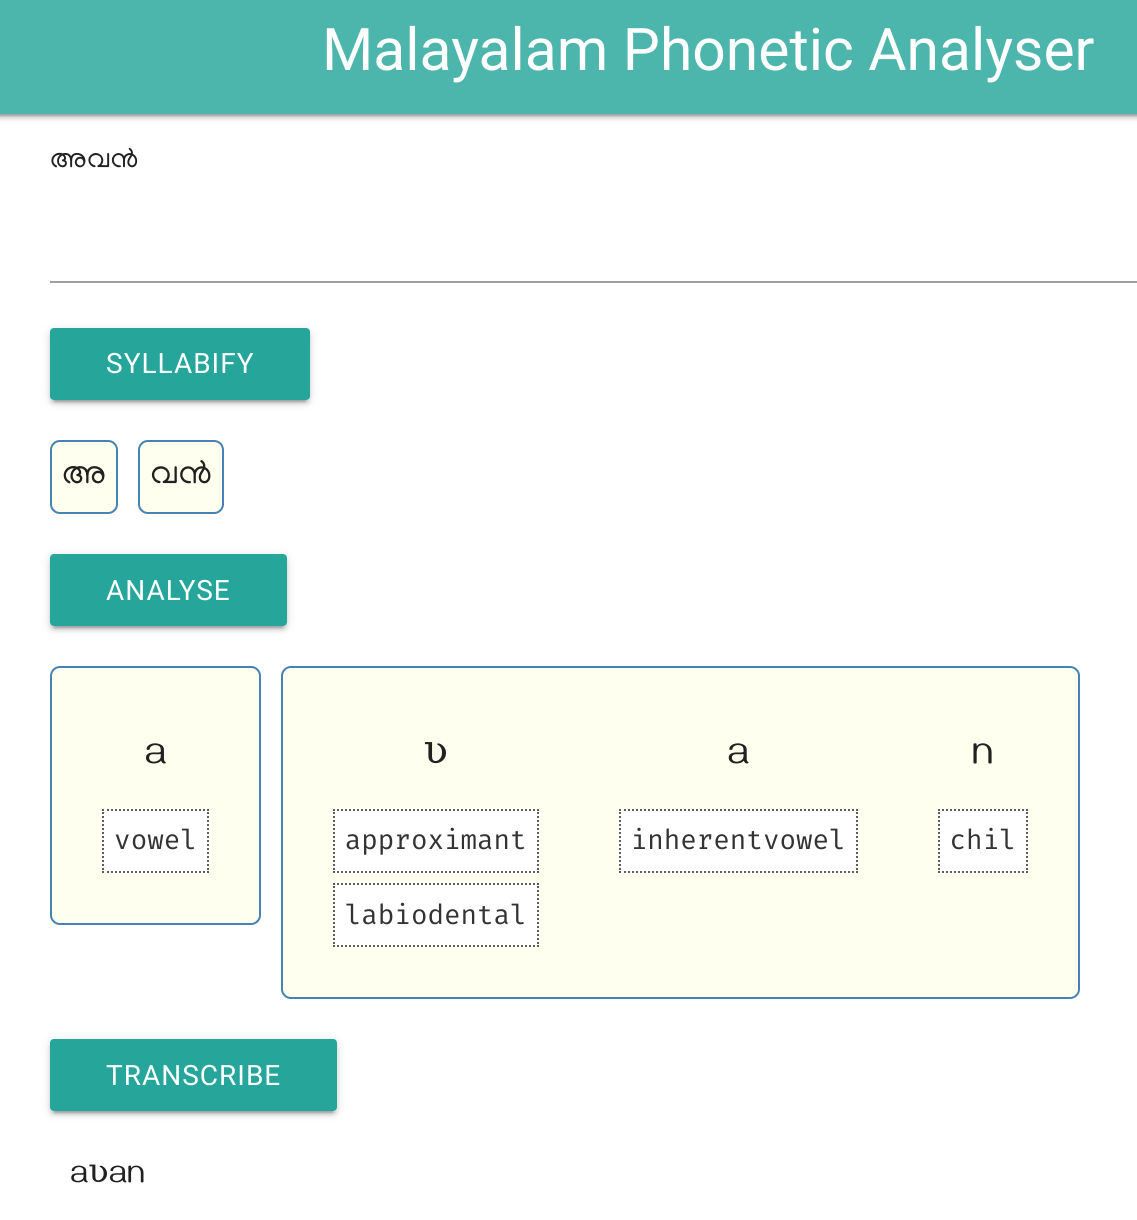
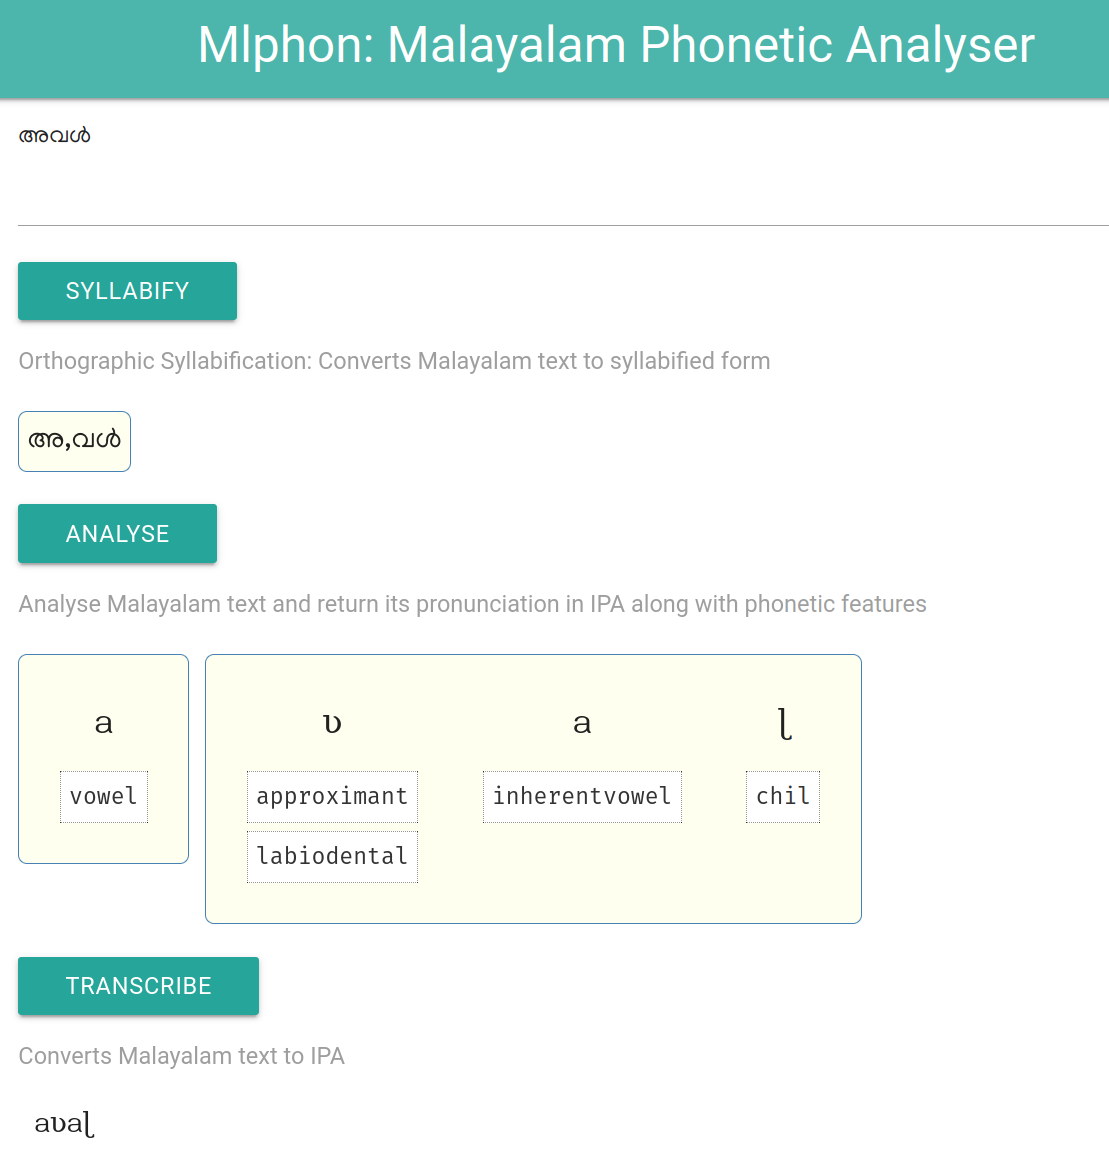
Webdemo page modified with Mlphon, Lingustic expertise info added in gold std lexicon

diff --git a/access.tex b/access.tex
@@ -73,7 +73,9 @@ Kerala - 695 586 India}
 
 % \titlepgskip=-15pt
 \maketitle
+
 \section{Introduction}
+
 \label{intro}
 
 Precise text processing taking care of intricate linguistic details is a pre-requisite for many downstream natural language processing (NLP) tasks. This applied research work presents the motivation and steps involved in the  development of a knowledge based computational linguistic tool, Mlphon, that can solve multiple text processing problems closely associated with speech related and some general purpose NLP tasks. Mlphon is built on finite state transducers (FSTs) to perform multiple functions including grapheme to phoneme (g2p) and phoneme to grapheme (p2g) conversions, syllabification on graphemes as well as phonemes, phonetic feature analysis, and script grammar check for Malayalam. The features of Mlphon are accessible through a programmable python API, that can be integrated with the development process of automatic speech recognition (ASR) and text to speech synthesis (TTS).
@@ -637,7 +639,7 @@ A sequence of characters that do not belong to any of the classes listed above, 
 \section{The Design and Development of Mlphon}
 \label{arch}
 
-Given that Malayalam linguistic literature contains well-established pronunciation modelling rules \cite{mohanan1989syllable, asher1997, prabo2016}, we computationally model these rules in a deterministic manner using finite state transducers, which are ideal for this task \cite{kaplan1994regular}. FSTs are apt for morphological as well as phonological parsing of natural languages \cite{kaplan1994regular}. An FST maps between two sets of symbols. Formally a finite state transducer $T$ can be defined \cite{jurafsky2014speech} as a set of seven parameters ($Q,\Sigma, \Gamma, I, F, \delta, \sigma$) where
+Given that Malayalam linguistic literature contains well-established pronunciation modeling rules \cite{mohanan1989syllable, asher1997, prabo2016}, we computationally model these rules in a deterministic manner using finite state transducers, which are ideal for this task \cite{kaplan1994regular}. FSTs are apt for morphological as well as phonological parsing of natural languages \cite{kaplan1994regular}. An FST maps between two sets of symbols. Formally a finite state transducer $T$ can be defined \cite{jurafsky2014speech} as a set of seven parameters ($Q,\Sigma, \Gamma, I, F, \delta, \sigma$) where
 
 Q \textit{is a finite set of states}
 
@@ -1013,7 +1015,7 @@ The preliminary mapping carried out by this FST will be modified by subsequent F
 
 \subsubsection{Inherent Vowel Addition}
 
-Inherent vowel {\ipa /a/} is added after consonant phonemes if it is at the end of a syllable position, or it is followed by the anuswara, visarga, or a chillu as described in Algorithm \ref{disambiguation}.
+Inherent vowel {\ipa /a/} is added after consonant phonemes if it is at the end of a syllable position, or it is followed by the \textit{anuswara}, \textit{visarga}, or a \textit{chillu} as described in Algorithm \ref{disambiguation}.
 
 
 
@@ -1131,7 +1133,7 @@ The tag-removal FST  removes the boundary tags and phonetic feature tags, by map
 \subsection{Syllabifier FST}
 \label{syllabification}
 
-The composition of the series of FSTs from \ref{normalisation} to \ref{syllabletagger} results in a very useful module that performs syllabification of Malayalam text. We compose these FSTs to get the Syllabifier FST and provide programmable access to it in the Mlphon Python library. This module has interesting applications like developing subword level language modelling for ASR as described in section \ref{applications}. An illustration of this module accepting Malayalam text as input and generating output with syllable boundary tags is shown in Fig. \ref{syllabifierblock}.
+The composition of the series of FSTs from \ref{normalisation} to \ref{syllabletagger} results in a very useful module that performs syllabification of Malayalam text. We compose these FSTs to get the Syllabifier FST and provide programmable access to it in the Mlphon Python library. This module has interesting applications like developing subword level language modeling for ASR as described in section \ref{applications}. An illustration of this module accepting Malayalam text as input and generating output with syllable boundary tags is shown in Fig. \ref{syllabifierblock}.
 
 
 \begin{figure}[h]
@@ -1269,7 +1271,7 @@ Evaluating a script analysis toolkit like Mlphon is not straight forward due the
 
 The lexical entries in gold standard lexicon are chosen from the IndicNLP Corpus\footnote{\url{https://github.com/AI4Bharat/indicnlp_corpus}} \cite{kunchukuttan2020ai4bharat} which is a list of words with frequency information. These words belong to a general domain, web crawled Malayalam text corpus of 167.4 million tokens with 8.8 million types. 
 
-The manually verified gold standard annotations were created semi-automatically. The process began with the syllabification of 1000 of the most common words in this corpus using Mlphon. It gave back a list of words, some of which had the proper syllabification and others of which had none at all. A small portion of the words that couldn't be syllabified were incorrectly spelled, which is typical of a corpus compiled from web crawls. Misspelt words were manually corrected in the corpus and syllabified. All the syllabifications peformed by Mlphon were also manually verified and corrected, if found to be wrong. For the remaining words, which could not be syllabified, manual annotation was performed. Thus the gold standard lexicon for syllabification was obtained.
+The manually verified gold standard annotations were created semi-automatically. The process began with the syllabification of 1000 of the most common words in this corpus using Mlphon. It gave back a list of words, some of which had the proper syllabification and others of which had none at all. A small portion of the words that couldn't be syllabified were incorrectly spelled, which is typical of a corpus compiled from web crawls. Misspelt words were manually corrected in the corpus and syllabified. All the syllabifications performed by Mlphon were also manually verified and corrected by expert linguists, if found to be wrong. For the remaining words, which could not be syllabified, manual annotation was performed. Thus the gold standard lexicon for syllabification was obtained.
 
 The gold standard lexicon for g2p mapping followed a similar procedure. Mlphon was used to phoneme map the spelling corrected 1000 words. The returned results were manually corrected for deletion, substitution and insertion errors. The manual corrections were performed, following all the rules and descriptions in the reference books \cite{asher1997,prabo2016}. The removal of word final schwa (\textit{samvruthokaram}) in proper nouns was suggested in a consultation with linguists. The final annotations on the gold standard lexicon were approved by them.
 
@@ -1431,7 +1433,7 @@ The grapheme to phoneme conversion of Mlphon is evaluated, comparing its output 
 				\hline\hline
 			 Word             & Reference             & Mlphon                   & Error        \\
 				\hline
-				\mal ഈ}         & {\ipa iː}                               & {\ipa iː}                               & -            \\
+				{\mal ഈ}         & {\ipa iː}                               & {\ipa iː}                               & -            \\
 				 {\mal ഉന്നത}      & {\ipa u n n a t̪ a}                      & {\ipa u n n a t̪ a}                      & -            \\
 			 {\mal  എന്ന}       & {\ipa e n̪ n̪ a }                         & {\ipa e n̪ n̪ a}                          & -            \\
 			 {\mal  ഒരു}        & {\ipa o ɾ u }                           & {\ipa o ɾ u}                            & -            \\
@@ -1589,7 +1591,7 @@ Sample entries from the pronunciation lexicons created using these tools, are pr
     \item Espeak additionally considers allophonic variations due to co-articulation effects. Mlphon does not consider this because this is not a phonemic change.
 \end{enumerate}
 
-The carefully crafted pronunciation rules on Mlphon has close to perfect g2p mappings. It makes Mlphon suitable for the creation pronunciation lexicons and for linguistic learning purposes. The unattended contextual rules make Unified Parser less suitable for such tasks. Espeak is suitable to identify allophonic variations. The impact of these lexicons on ASR task is experimentally analysed and presented below.
+The carefully crafted pronunciation rules in Mlphon has close to perfect g2p mappings. It makes Mlphon suitable for the creation pronunciation lexicons and for linguistic learning purposes. The unattended contextual rules make Unified Parser less suitable for such tasks. Espeak is suitable to identify allophonic variations. The impact of these lexicons on ASR task is experimentally analysed and presented below.
 
 % The pronunciation lexicon contains words and their pronunciation as a sequence of phonemes.
 
@@ -1746,7 +1748,7 @@ TDNN & 35.7& 34.9&\textbf{34.6 }&10.7 & 9.7&\textbf{ 9.6}\\
 
 This analysis is an indicator of the importance of precise g2p conversion required for speech tasks. Also as we demonstrate in the following section, Mlphon has the additional advantage of high word processing speed, while creating pronunciation lexicons.
 
-Although there have been previously published works on ASR for continuous Malayalam speech \cite{lavanya2018,deekshitha,lekshmi2021}, each one was tested using private datasets described in respective papers. The lexicon creation process was not explicitly explained. Additionally, some of these works did not mention the sizes of the pronunciation lexicon and OOV rates, which have a significant impact on the WER. Neverthless we present a comparison of these previously reported WERs with ours. It is observed that, on two different test datasets of OOV rates 14\% and 1\%, the proposed ASR with Mlphon lexicon provides similar or better WERs when compared with previously reported WERs as listed in Table \ref{asrcomparison}. 
+Although there have been previously published works on ASR for continuous Malayalam speech \cite{lavanya2018,deekshitha,lekshmi2021}, each one was tested using private datasets described in respective papers. The lexicon creation process was not explicitly explained. Additionally, some of these works did not mention the sizes of the pronunciation lexicon and OOV rates, which have a significant impact on the WER. Nevertheless we present a comparison of these previously reported WERs with ours. It is observed that, on two different test datasets of OOV rates 14\% and 1\%, the proposed ASR with Mlphon lexicon provides similar or better WERs when compared with previously reported WERs as listed in Table \ref{asrcomparison}. 
 
 \begin{table}[h]
 	\caption{Comparison of WER from previously reported works on  Malayalam ASR. The ASR we built using the lexicon created with Mlphon performs at par with the previously reported works.}
@@ -1856,7 +1858,7 @@ Table \ref{lexiconsamples}  gives an excerpt from different categories of pronun
 
 \subsection{COMPARISON OF PROCESSING SPEED}
 
-Word processing speed (WPS) is one indicator of a g2p algorithm's effectiveness \cite{mdpi2022ruleg2p}. The WPS  for the applications, Unified Parser \cite{baby2016unified}, Espeak\footnote{Using Phonemizer library \url{https://pypi.org/project/phonemizer/}} and the proposed tool Mlphon was estimated by measuring the time required to convert the 100k common words in Malayalam listed in Indic NLP corpus \cite{kunchukuttan2020ai4bharat} as per (\ref{wps}). Mlphon with a WPS of 69142 words per second is atleast ten times faster than Espeak and 1000 times faster than Unified Parser as per the values computed and listed in Table \ref{speed}. This faster processing speed of  Mlphon makes it particularly suitable for integration with other real time NLP applications.
+Word processing speed (WPS) is one indicator of a g2p algorithm's effectiveness \cite{mdpi2022ruleg2p}. The WPS  for the applications, Unified Parser \cite{baby2016unified}, Espeak\footnote{Using Phonemizer library \url{https://pypi.org/project/phonemizer/}} and the proposed tool Mlphon was estimated by measuring the time required to convert the 100k common words in Malayalam listed in Indic NLP corpus \cite{kunchukuttan2020ai4bharat} as per (\ref{wps}). Mlphon with a WPS of 69142 words per second is at least ten times faster than Espeak and 1000 times faster than Unified Parser as per the values computed and listed in Table \ref{speed}. This faster processing speed of  Mlphon makes it particularly suitable for integration with other real time NLP applications.
 
 \begin{equation}
 \label{wps}
@@ -1915,7 +1917,7 @@ It is important for a new script learner to understand the pronunciations correc
 
 \begin{figure}[h]
 	\centering
-	\includegraphics[width=\linewidth]{demo.png}
+	\includegraphics[width=\linewidth]{mlphon-web.png}
 	\caption{Web interface for Mlphon. Features of syllabification, phonetic analysis and IPA transcription are shown.}
 	% \Description{Phonemic diversity analysis of various speech corpora used in ASR Experiments. The graphs indicate all corpora are equally diverse.}
 	\label{mlphon-web}
